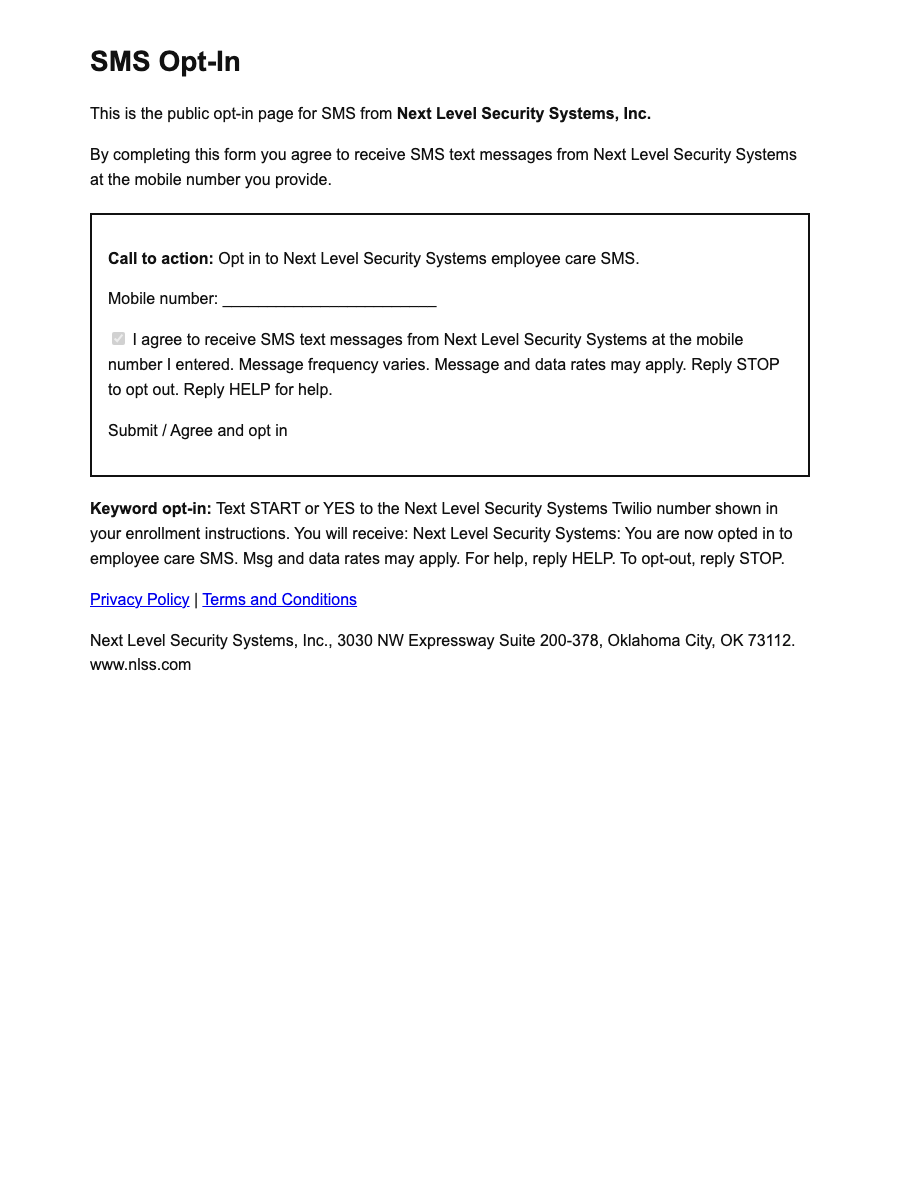
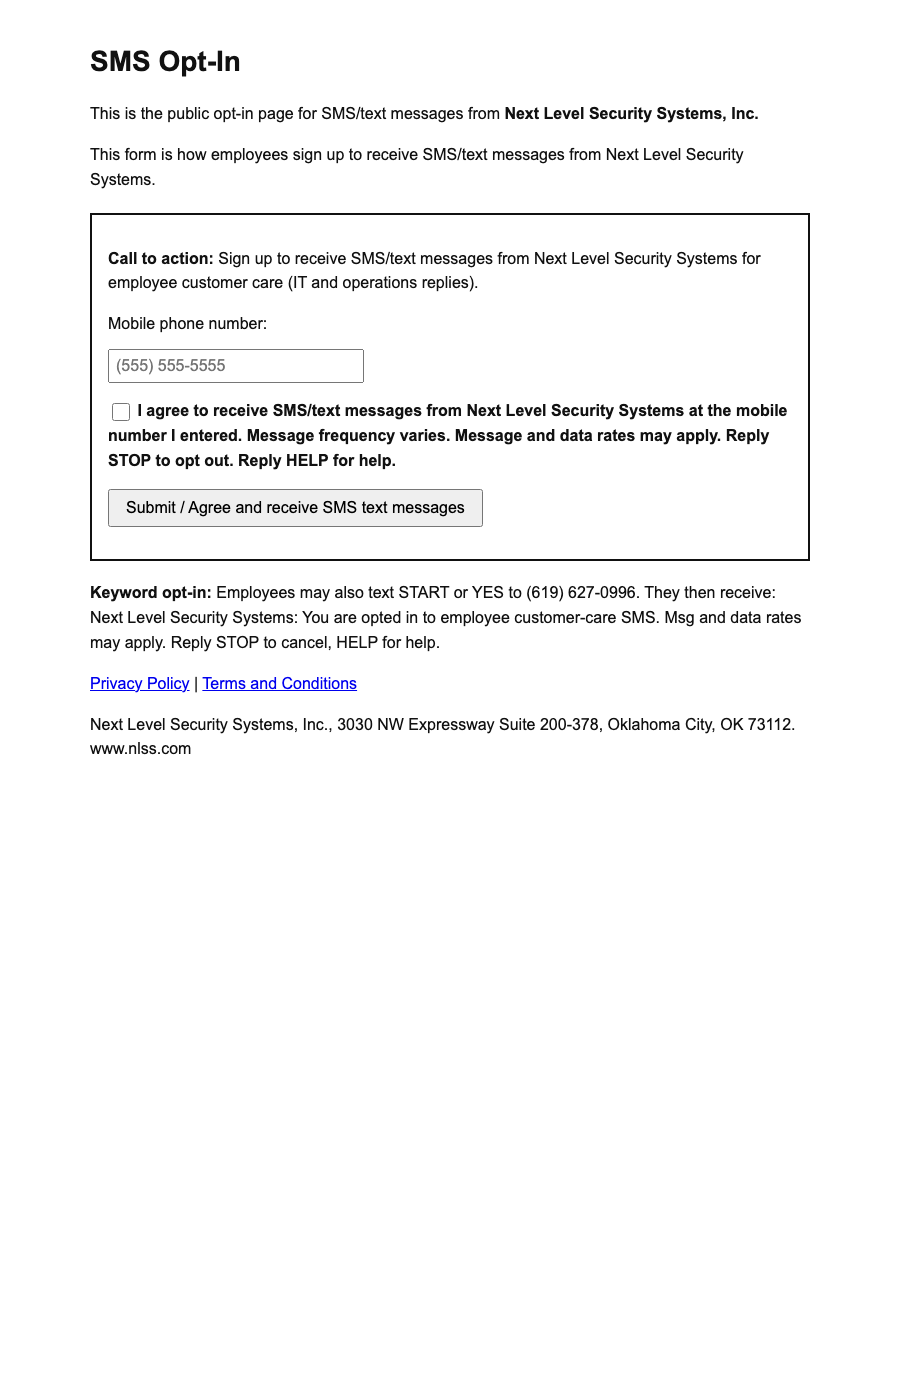
Strip Spark/chat/photo copy and make SMS consent checkbox explicit.
Twilio SHAFT-rejected the prior campaign after crawling Privacy and Terms
that still mentioned Spark chat, photos, and models. Pages now describe
first-party employee customer-care SMS only. Opt-in form uses a labeled
checkbox that says the person will receive SMS/text messages.

Changed region(s): [[0.0933, 0.0308, 0.9022, 0.555]]

diff --git a/sms-opt-in/index.html b/sms-opt-in/index.html
@@ -9,22 +9,35 @@
     h1 { font-size: 28px; }
     .box { border: 2px solid #111; padding: 16px; margin: 20px 0; }
     label { display: block; margin: 12px 0; }
+    input[type="tel"] { width: 240px; padding: 6px; font-size: 16px; }
+    input[type="checkbox"] { width: 18px; height: 18px; vertical-align: middle; }
+    .consent { font-weight: bold; }
+    button { font-size: 16px; padding: 8px 16px; }
   </style>
 </head>
 <body>
   <h1>SMS Opt-In</h1>
-  <p>This is the public opt-in page for SMS from <strong>Next Level Security Systems, Inc.</strong></p>
-  <p>By completing this form you agree to receive SMS text messages from Next Level Security Systems at the mobile number you provide.</p>
-  <div class="box">
-    <p><strong>Call to action:</strong> Opt in to Next Level Security Systems employee care SMS.</p>
-    <p>Mobile number: ________________________</p>
+  <p>This is the public opt-in page for SMS/text messages from <strong>Next Level Security Systems, Inc.</strong></p>
+  <p>This form is how employees sign up to receive SMS/text messages from Next Level Security Systems.</p>
+
+  <form class="box" action="#" method="get">
+    <p><strong>Call to action:</strong> Sign up to receive SMS/text messages from Next Level Security Systems for employee customer care (IT and operations replies).</p>
     <p>
-      <input type="checkbox" checked disabled />
-      I agree to receive SMS text messages from Next Level Security Systems at the mobile number I entered. Message frequency varies. Message and data rates may apply. Reply STOP to opt out. Reply HELP for help.
+      <label for="mobile">Mobile phone number:</label>
+      <input id="mobile" name="mobile" type="tel" placeholder="(555) 555-5555" />
     </p>
-    <p>Submit / Agree and opt in</p>
-  </div>
-  <p><strong>Keyword opt-in:</strong> Text START or YES to the Next Level Security Systems Twilio number shown in your enrollment instructions. You will receive: Next Level Security Systems: You are now opted in to employee care SMS. Msg and data rates may apply. For help, reply HELP. To opt-out, reply STOP.</p>
+    <p class="consent">
+      <label for="consent">
+        <input id="consent" name="consent" type="checkbox" />
+        I agree to receive SMS/text messages from Next Level Security Systems at the mobile number I entered. Message frequency varies. Message and data rates may apply. Reply STOP to opt out. Reply HELP for help.
+      </label>
+    </p>
+    <p>
+      <button type="submit">Submit / Agree and receive SMS text messages</button>
+    </p>
+  </form>
+
+  <p><strong>Keyword opt-in:</strong> Employees may also text START or YES to (619) 627-0996. They then receive: Next Level Security Systems: You are opted in to employee customer-care SMS. Msg and data rates may apply. Reply STOP to cancel, HELP for help.</p>
   <p>
     <a href="../sms-privacy-policy/">Privacy Policy</a> |
     <a href="../sms-terms/">Terms and Conditions</a>

diff --git a/sms-privacy-policy/index.html b/sms-privacy-policy/index.html
@@ -18,23 +18,23 @@
   Website: <a href="https://www.nlss.com">https://www.nlss.com</a><br>
   Effective date: September 18, 2026</p>
 
-  <p>This Privacy Policy describes what data Next Level Security Systems collects and how it is used for the Spark chat SMS program.</p>
+  <p>This Privacy Policy describes what data Next Level Security Systems collects and how it is used for employee customer-care SMS.</p>
 
   <h2>Information we collect</h2>
-  <p>When you opt in to SMS from Next Level Security Systems Spark chat, we collect:</p>
+  <p>When you opt in to SMS text messages from Next Level Security Systems, we collect:</p>
   <ul>
     <li>Your mobile phone number</li>
-    <li>The text and photos you send to our Twilio number</li>
+    <li>The text messages you send to our company number</li>
     <li>Message timestamps, delivery status, and opt-in / opt-out records</li>
   </ul>
-  <p>We use this information only to operate Spark chat: to receive your questions or photos, generate a reply on our on-premises Spark system, send that reply by SMS, and keep consent records required by carriers.</p>
+  <p>We use this information only to reply to employee IT and operations questions, deliver SMS, and keep consent records required by carriers.</p>
 
   <h2>SMS opt-in data</h2>
   <p>We do not sell or share your SMS opt-in data or personal information with third parties for marketing purposes.</p>
-  <p>We may share data with carriers and Twilio solely to deliver SMS. We do not sell lists. We do not use SMS opt-in data for advertising.</p>
+  <p>We may share data with carriers and Twilio solely to deliver SMS. We do not sell lists. We do not use SMS opt-in data for advertising. This is a first-party program for Next Level Security Systems employees. It is not lead generation.</p>
 
   <h2>Retention</h2>
-  <p>We keep opt-in and opt-out records as required for A2P 10DLC and TCPA compliance. Message content is stored locally on our Spark chat system for the operator of the service.</p>
+  <p>We keep opt-in and opt-out records as required for A2P 10DLC and TCPA compliance. Message content is stored only as needed to operate employee customer-care SMS.</p>
 
   <h2>Your choices</h2>
   <p>Text STOP to opt out. Text HELP for help. You may email <a href="mailto:accounting@nlss.com">accounting@nlss.com</a> or call +1 (760) 444-1410 with privacy questions.</p>

diff --git a/sms-terms/index.html b/sms-terms/index.html
@@ -18,17 +18,17 @@
   Website: <a href="https://www.nlss.com">https://www.nlss.com</a><br>
   Effective date: September 18, 2026</p>
 
-  <p>These Terms and Conditions govern use of the Next Level Security Systems Spark chat SMS program.</p>
+  <p>These Terms and Conditions govern use of Next Level Security Systems employee customer-care SMS.</p>
 
   <h2>SMS Terms</h2>
-  <p>By texting START, YES, or any first message to the Next Level Security Systems Twilio number, you agree to receive SMS (and MMS, if you send a photo) replies from Next Level Security Systems Spark chat.</p>
+  <p>By completing the opt-in form or by texting START or YES to the Next Level Security Systems company number, you agree to receive SMS/text messages from Next Level Security Systems at the mobile number you provide.</p>
   <p>Message frequency varies. Message and data rates may apply.</p>
   <p>Reply STOP to cancel. Reply HELP for help. For support, email <a href="mailto:accounting@nlss.com">accounting@nlss.com</a> or call +1 (760) 444-1410.</p>
   <p>Carriers are not liable for delayed or undelivered messages.</p>
-  <p>This program is for enrolled Next Level Security Systems personnel. It is not a public marketing list.</p>
+  <p>This program is for enrolled Next Level Security Systems employees. It is not a public marketing list. It is not advertising. It is not lead generation.</p>
 
   <h2>Service</h2>
-  <p>Spark chat answers text questions using on-premises models and may describe photos you send. Replies are informational. They are not an alarm dispatch, legal advice, or a substitute for a monitored security system.</p>
+  <p>Messages are customer-care replies to IT and operations questions an employee sends to the company number. Replies are informational. They are not an alarm dispatch, legal advice, or a substitute for a monitored security system.</p>
 
   <h2>Privacy</h2>
   <p>See the <a href="../sms-privacy-policy/">Privacy Policy</a> for how Next Level Security Systems handles SMS opt-in data.</p>

diff --git a/sms-opt-in/snapshot.html b/sms-opt-in/snapshot.html
@@ -6,7 +6,7 @@
   <style>body{margin:0;background:#fff;text-align:center;font-family:Arial,sans-serif} img{max-width:100%;height:auto}</style>
 </head>
 <body>
-  <p>Snapshot of the Next Level Security Systems SMS opt-in page (checkbox and consent wording).</p>
-  <img src="./screenshot.png" alt="Next Level Security Systems SMS opt-in page showing I agree to receive SMS text messages checkbox" />
+  <p>Snapshot of the Next Level Security Systems SMS opt-in form. The consent checkbox states that the person will receive SMS/text messages from Next Level Security Systems.</p>
+  <img src="./screenshot.png" alt="Next Level Security Systems SMS opt-in form with checkbox: I agree to receive SMS/text messages from Next Level Security Systems" />
 </body>
 </html>

diff --git a/index.html b/index.html
@@ -11,7 +11,7 @@
 </head>
 <body>
   <h1>Next Level Security Systems SMS Program</h1>
-  <p>Legal pages for the Next Level Security Systems Spark chat SMS program.</p>
+  <p>Legal pages for Next Level Security Systems employee customer-care SMS.</p>
   <ul>
     <li><a href="./sms-privacy-policy/">Privacy Policy</a></li>
     <li><a href="./sms-terms/">Terms and Conditions</a></li>
